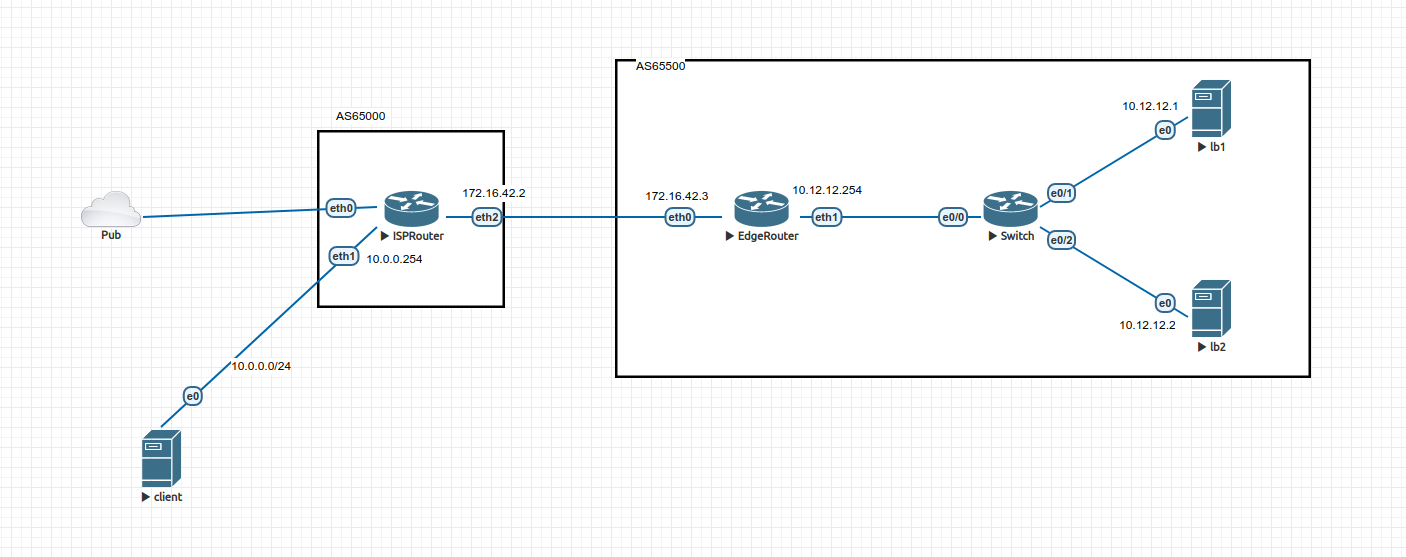
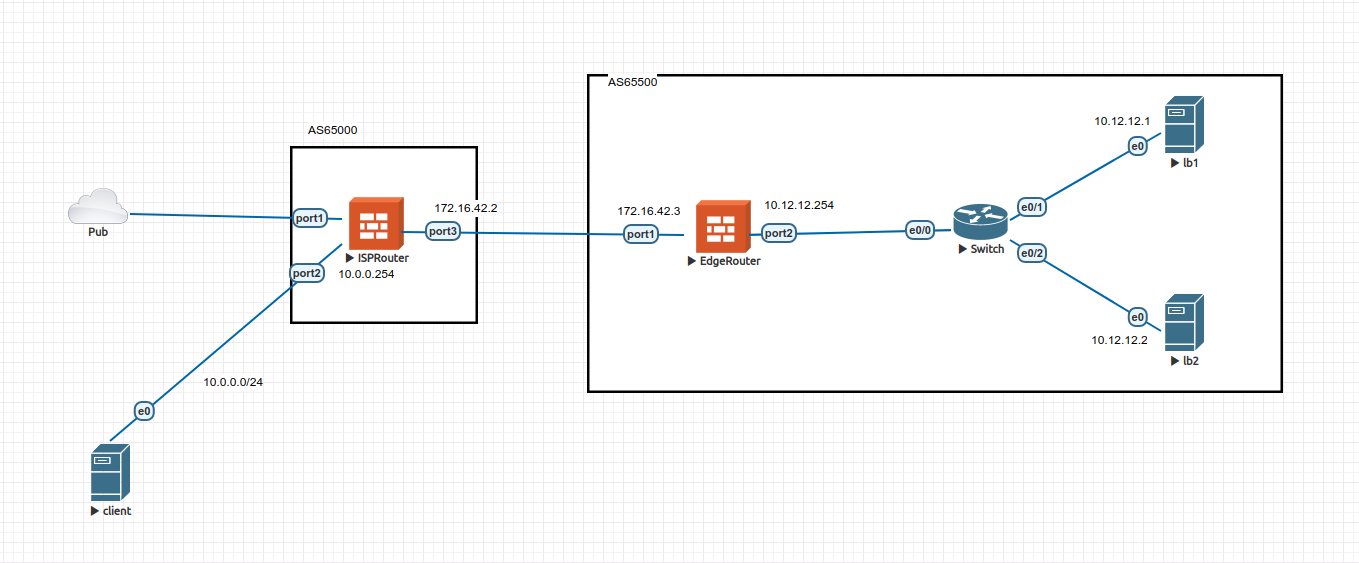
Update content

diff --git a/content/posts/bgp-ecmp-load-balancing.md b/content/posts/bgp-ecmp-load-balancing.md
@@ -23,79 +23,126 @@ References:
 {{< figure src="/photos/bgp-ecmp-load-balancing/ecmp-bgp.png" >}}
 
 - `AS 65000`: internet service provider. In this post, we will build a BGP session between EdgeRouter and ISP router.
-- `ISPRouter` and `EdgeRouter` are [VyOS](https://vyos.io/) instances. You can use other routers as well.
+- `ISPRouter` and `EdgeRouter` are [Fortinet Fortigate v7.0.3](https://docs.fortinet.com/document/fortigate/7.0.3) instances. You can use other routers as well.
 - `Switch` is a Cisco switch.
 - `client`, `lb1`, and `lb2` are Ubuntu server 18.04 instances. `lb1` and `lb2` will be in the `10.12.12.0/24` private LAN, we will install nginx (LB L7) on these. Both servers will announce the same public IP (10.13.13.1) to `EdgeRouter` using BGP. Incoming traffic from internet to this public IP will be routed to `lb1` or `lb2` depending of a hash.
-- You need to download and install device virtual images. Follow [EVE-NG guide](https://www.eve-ng.net/index.php/documentation/howtos/howto-add-vyos-vyatta/).
+- You need to download and install device virtual images. Follow [EVE-NG guide](https://www.eve-ng.net/index.php/documentation/howtos/howto-add-fortinet-images/).
 
 ## 3. Configure
 
 ### 3.1. ISPRouter
 
-Follow the [VyOS Quickstart](https://docs.vyos.io/en/equuleus/quick-start.html) for the basic commands.
+Follow the [Fortigate document](https://docs.fortinet.com/document/fortigate/7.0.3) for the basic commands.
 
-```
+```bash
 # interfaces configurations
-set interfaces ethernet eth0 address 'dhcp'
-set interfaces ethernet eth1 address '10.0.0.254/24'
-set interfaces ethernet eth2 address '172.16.42.2/31'
-
-# source nat to let 'client' instance reach internet (optional)
-set nat source rule 100 outbound-interface 'eth0'
-set nat source rule 100 source address '10.0.0.0/24'
-set nat source rule 100 translation address 'masquerade'
-
-# source nat let my network reach internet (optional)
-set nat source rule 200 outbound-interface 'eth0'
-set nat source rule 200 source address '172.16.42.3/31'
-set nat source rule 200 translation address 'masquerade'
-
+config system interface
+    edit "port1"
+        set mode static
+        set ip 192.168.22.226 255.255.255.0
+        set allowaccess ping https ssh http telnet
+    next
+    edit "port2"
+        set mode static
+        set ip 10.0.0.254 255.255.255.0
+        set allowaccess ping https ssh http telnet
+    next
+    edit "port3"
+        set mode static
+        set ip 172.16.42.2 255.255.255.254
+        set allowaccess ping https ssh http telnet
+    next
+end
 # Simple BGP configuration
-set protocols bgp 65000 neighbor 172.16.42.3 remote-as '65500'
-set protocols bgp 65000 neighbor 172.16.42.3 update-source '172.16.42.2'
-set protocols bgp 65000 address-family ipv4-unicast network 0.0.0.0/0
-set protocols bgp 65000 parameters router-id '172.16.42.2'
+config router bgp
+    set as 65000
+    set router-id 172.16.42.2
+    config neighbor
+        edit "172.16.42.3"
+            set capability-default-originate enable
+            set remote-as 65500
+            set update-source "port3"
+        next
+    end
+end
 
-# DNS server for 'client instance'
-set service dns forwarding cache-size '0'
-set service dns forwarding listen-address '10.0.0.254'
-set service dns forwarding allow-from '10.0.0.0/24'
-set service dns forwarding name-server '8.8.8.8'
-set service dns forwarding name-server '8.8.4.4'
+# Firewall policy (simple allow all)
+config firewall policy
+    edit 1
+        set name "allow"
+        set srcintf "any"
+        set dstintf "any"
+        set action accept
+        set srcaddr "all"
+        set dstaddr "all"
+        set schedule "always"
+        set service "ALL"
+    next
+end
 ```
 
 ### 3.2. EdgeRouter
 
-```
-set interfaces ethernet eth0 address '172.16.42.3/31'
-set interfaces ethernet eth1 address '10.12.12.254/24'
+```bash
+config system interface
+    edit "port1"
+        set vdom "root"
+        set ip 172.16.42.3 255.255.255.254
+        set allowaccess ping https ssh snmp http telnet
+        set type physical
+        set snmp-index 1
+    next
+    edit "port2"
+        set vdom "root"
+        set ip 10.12.12.254 255.255.255.0
+        set allowaccess ping https ssh snmp http telnet
+        set type physical
+        set snmp-index 2
+    next
+end
 
-set nat source rule 100 outbound-interface 'eth0'
-set nat source rule 100 source address '10.12.12.0/24'
-set nat source rule 100 translation address 'masquerade'
+# BGP config
+config router bgp
+    set as 65500
+    set router-id 172.16.42.3
+    set ibgp-multipath enable
+    set additional-path enable
+    config neighbor
+        edit "10.12.12.2"
+            set remote-as 65500
+            set update-source "port2"
+        next
+        edit "10.12.12.1"
+            set remote-as 65500
+            set update-source "port2"
+        next
+        edit "172.16.42.2"
+            set remote-as 65000
+            set update-source "port1"
+        next
+    end
+end
 
-set protocols bgp 65500 address-family ipv4-unicast maximum-paths ibgp '2'
-set protocols bgp 65500 neighbor 10.12.12.1 remote-as '65500'
-set protocols bgp 65500 neighbor 10.12.12.1 update-source '10.12.12.254'
-set protocols bgp 65500 neighbor 10.12.12.2 remote-as '65500'
-set protocols bgp 65500 neighbor 10.12.12.2 update-source '10.12.12.254'
-set protocols bgp 65500 neighbor 172.16.42.2 remote-as '65000'
-set protocols bgp 65500 neighbor 172.16.42.2 update-source '172.16.42.3'
-set protocols bgp 65500 parameters router-id '172.16.42.3'
-
-set service dns forwarding cache-size '0'
-set service dns forwarding listen-address '10.12.12.254'
-set service dns forwarding name-server '8.8.8.8'
-set service dns forwarding allow-from '10.12.12.0/24'
-set service dns forwarding name-server '8.8.8.8'
-set service dns forwarding name-server '8.8.4.4'
+# Firewall policy (simple allow all)
+config firewall policy
+    edit 1
+        set name "allow"
+        set srcintf "any"
+        set dstintf "any"
+        set action accept
+        set srcaddr "all"
+        set dstaddr "all"
+        set schedule "always"
+        set service "ALL"
+    next
+end
 ```
 
 ### 3.3. Switch
 
 - Set up mode access.
 
-```
+```bash
 configure terminal
 interface range Ethernet 0/0-2
 switchport mode access
@@ -294,106 +341,155 @@ client$ curl http://10.13.13.1/hostname
 lb1
 ```
 
-- Change client ip. The load balancing is working.
+-
+
+- Change client ip. The load balancing works!
+
+```bash
+# Set client's ip to 10.0.0.1
+client$ ip a
+1: lo: <LOOPBACK,UP,LOWER_UP> mtu 65536 qdisc noqueue state UNKNOWN group default qlen 1000
+    link/loopback 00:00:00:00:00:00 brd 00:00:00:00:00:00
+    inet 127.0.0.1/8 scope host lo
+       valid_lft forever preferred_lft forever
+    inet6 ::1/128 scope host
+       valid_lft forever preferred_lft forever
+2: ens3: <BROADCAST,MULTICAST,UP,LOWER_UP> mtu 1500 qdisc fq_codel state UP group default qlen 1000
+    link/ether 00:50:00:00:05:00 brd ff:ff:ff:ff:ff:ff
+    inet 10.0.0.1/24 brd 10.0.0.255 scope global ens3
+       valid_lft forever preferred_lft forever
+    inet6 fe80::250:ff:fe00:500/64 scope link
+       valid_lft forever preferred_lft forever
+
+client$ curl http://10.13.13.1/hostname
+lb1
+```
+
+- Change client's ip address to `10.0.0.100` and send another request. You can the request was sent to `lb2` instead `lb1`.
 
 ```bash
 client$ curl http://10.13.13.1/hostname
 lb2
 ```
 
-- Check EdgeRouter and ISPRouter
+- Check EdgeRouter.
 
-```bash
-# EdgeRouter
-vyos@edgerouter:~$ show ip bgp
-BGP table version is 36, local router ID is 172.16.42.3, vrf id 0
-Default local pref 100, local AS 65500
-Status codes:  s suppressed, d damped, h history, * valid, > best, = multipath,
-               i internal, r RIB-failure, S Stale, R Removed
-Nexthop codes: @NNN nexthop\'s vrf id, < announce-nh-self
-Origin codes:  i - IGP, e - EGP, ? - incomplete
+```
+FortiGate-VM64-KVM # get router info routing-table all
+Codes: K - kernel, C - connected, S - static, R - RIP, B - BGP
+       O - OSPF, IA - OSPF inter area
+       N1 - OSPF NSSA external type 1, N2 - OSPF NSSA external type 2
+       E1 - OSPF external type 1, E2 - OSPF external type 2
+       i - IS-IS, L1 - IS-IS level-1, L2 - IS-IS level-2, ia - IS-IS inter area
+       * - candidate default
 
-   Network          Next Hop            Metric LocPrf Weight Path
-*> 0.0.0.0/0        172.16.42.2              0             0 65000 i
-* i10.13.13.1/32    10.12.12.2            1000    100      0 i
-*>i                 10.12.12.1             100    100      0 i
+Routing table for VRF=0
+B*      0.0.0.0/0 [20/0] via 172.16.42.2 (recursive is directly connected, port1), 01:01:52
+C       10.12.12.0/24 is directly connected, port2
+B       10.13.13.1/32 [200/100] via 10.12.12.1 (recursive is directly connected, port2), 01:04:33
+                      [200/100] via 10.12.12.2 (recursive is directly connected, port2), 01:04:33
+C       172.16.42.2/31 is directly connected, port1
 
-Displayed  2 routes and 3 total paths
+FortiGate-VM64-KVM # get router info bgp network
+VRF 0 BGP table version is 3, local router ID is 172.16.42.3
+Status codes: s suppressed, d damped, h history, * valid, > best, i - internal,
+              S Stale
+Origin codes: i - IGP, e - EGP, ? - incomplete
+
+   Network          Next Hop            Metric LocPrf Weight RouteTag Path
+*> 0.0.0.0/0        172.16.42.2              0             0        0 65000 i <-/1>
+*>i10.13.13.1/32    10.12.12.2             100    100      0        0 i <-/2>
+*>i                 10.12.12.1             100    100      0        0 i <-/1>
+
+Total number of prefixes 2
 ```
 
-```bash
-# ISPRouter
-vyos@isprouter:~$ show ip bgp
-BGP table version is 12, local router ID is 172.16.42.2, vrf id 0
-Default local pref 100, local AS 65000
-Status codes:  s suppressed, d damped, h history, * valid, > best, = multipath,
-               i internal, r RIB-failure, S Stale, R Removed
-Nexthop codes: @NNN nexthop\'s vrf id, < announce-nh-self
-Origin codes:  i - IGP, e - EGP, ? - incomplete
+- Check ISPRouter
 
-   Network          Next Hop            Metric LocPrf Weight Path
-*> 0.0.0.0/0        0.0.0.0                  0         32768 i
-*> 10.13.13.1/32    172.16.42.3                            0 65500 i
+```
+FortiGate-VM64-KVM # get router info routing-table all
+Codes: K - kernel, C - connected, S - static, R - RIP, B - BGP
+       O - OSPF, IA - OSPF inter area
+       N1 - OSPF NSSA external type 1, N2 - OSPF NSSA external type 2
+       E1 - OSPF external type 1, E2 - OSPF external type 2
+       i - IS-IS, L1 - IS-IS level-1, L2 - IS-IS level-2, ia - IS-IS inter area
+       * - candidate default
 
-Displayed  2 routes and 2 total paths
+Routing table for VRF=0
+C       10.0.0.0/24 is directly connected, port2
+B       10.13.13.1/32 [20/0] via 172.16.42.3 (recursive is directly connected, port3), 01:06:48
+C       172.16.42.2/31 is directly connected, port3
+C       192.168.22.0/24 is directly connected, port1
+
+
+FortiGate-VM64-KVM # get router info bgp network
+VRF 0 BGP table version is 1, local router ID is 172.16.42.2
+Status codes: s suppressed, d damped, h history, * valid, > best, i - internal,
+              S Stale
+Origin codes: i - IGP, e - EGP, ? - incomplete
+
+   Network          Next Hop            Metric LocPrf Weight RouteTag Path
+*> 10.13.13.1/32    172.16.42.3              0             0        0 65500 i <-/1>
+
+Total number of prefixes 1
 ```
 
 ### 4.2. Scenario 2: One lb is down
 
-- Stop nginx on lb1 (ExaBGP only, Bird may require the complete shutdown) or stop lb1 physically.
+- Stop nginx on lb2 (ExaBGP only, Bird may require the complete shutdown) or stop lb2 physically.
 
 ```bash
-lb1$ sudo service nginx stop
+lb2$ sudo service nginx stop
 lb2$ sudo journalctl -fu exabgp
 -- Logs begin at Thu 2022-01-27 12:07:29 UTC. --
-Feb 07 11:12:11 lb1 healthcheck[13584]: send announces for UP state to ExaBGP
-Feb 07 11:12:11 lb1 exabgp[13562]: api             route added to neighbor 10.12.12.254 local-ip 10.12.12.1 local-as 65500 peer-as 65500 router-id 10.12.12.254 family-allowed in-open : 10.13.13.1/32 next-hop self med 100
+Feb 07 11:12:11 lb2 healthcheck[13584]: send announces for DOWN state to ExaBGP
+Feb 07 11:12:11 lb2 exabgp[13562]: api             route added to neighbor 10.12.12.254 local-ip 10.12.12.2 local-as 65500 peer-as 65500 router-id 10.12.12.254 family-allowed in-open : 10.13.13.1/32 next-hop self med 1000
 ```
 
 - Check client
 
 ```bash
 client$ curl 10.13.13.1/hostname
-lb2
+lb1
 ```
 
-- Check EdgeRouter, you may notice that the metric of 10.12.12.1 hop became 1000.
+- Check EdgeRouter, you may notice that the metric of 10.12.12.2 hop became 1000.
 
 ```bash
-vyos@edgerouter:~$ show ip bgp
-BGP table version is 42, local router ID is 172.16.42.3, vrf id 0
-Default local pref 100, local AS 65500
-Status codes:  s suppressed, d damped, h history, * valid, > best, = multipath,
-               i internal, r RIB-failure, S Stale, R Removed
-Nexthop codes: @NNN nexthop\'s vrf id, < announce-nh-self
-Origin codes:  i - IGP, e - EGP, ? - incomplete
+FortiGate-VM64-KVM # get router info bgp network
+VRF 0 BGP table version is 4, local router ID is 172.16.42.3
+Status codes: s suppressed, d damped, h history, * valid, > best, i - internal,
+              S Stale
+Origin codes: i - IGP, e - EGP, ? - incomplete
 
-   Network          Next Hop            Metric LocPrf Weight Path
-*> 0.0.0.0/0        172.16.42.2              0             0 65000 i
-*>i10.13.13.1/32    10.12.12.2             100    100      0 i
-* i                 10.12.12.1            1000    100      0 i
+   Network          Next Hop            Metric LocPrf Weight RouteTag Path
+*> 0.0.0.0/0        172.16.42.2              0             0        0 65000 i <-/1>
+* i10.13.13.1/32    10.12.12.2            1000    100      0        0 i <-/->
+*>i                 10.12.12.1             100    100      0        0 i <-/1>
 
-Displayed  2 routes and 3 total paths
+Total number of prefixes 2
 ```
 
 - Bring it back, then check client and EdgeRouter.
 
+```
+FortiGate-VM64-KVM # get router info bgp network
+VRF 0 BGP table version is 5, local router ID is 172.16.42.3
+Status codes: s suppressed, d damped, h history, * valid, > best, i - internal,
+              S Stale
+Origin codes: i - IGP, e - EGP, ? - incomplete
+
+   Network          Next Hop            Metric LocPrf Weight RouteTag Path
+*> 0.0.0.0/0        172.16.42.2              0             0        0 65000 i <-/1>
+*>i10.13.13.1/32    10.12.12.2             100    100      0        0 i <-/2>
+*>i                 10.12.12.1             100    100      0        0 i <-/1>
+
+Total number of prefixes 2
+```
+
+- Check client again.
+
 ```bash
-vyos@edgerouter:~$ show ip bgp
-BGP table version is 43, local router ID is 172.16.42.3, vrf id 0
-Default local pref 100, local AS 65500
-Status codes:  s suppressed, d damped, h history, * valid, > best, = multipath,
-               i internal, r RIB-failure, S Stale, R Removed
-Nexthop codes: @NNN nexthop\'s vrf id, < announce-nh-self
-Origin codes:  i - IGP, e - EGP, ? - incomplete
-
-   Network          Next Hop            Metric LocPrf Weight Path
-*> 0.0.0.0/0        172.16.42.2              0             0 65000 i
-*=i10.13.13.1/32    10.12.12.2             100    100      0 i
-*>i                 10.12.12.1             100    100      0 i
-
-Displayed  2 routes and 3 total paths
-
 client$ curl 10.13.13.1/hostname
-lb1
+lb2
 ```
